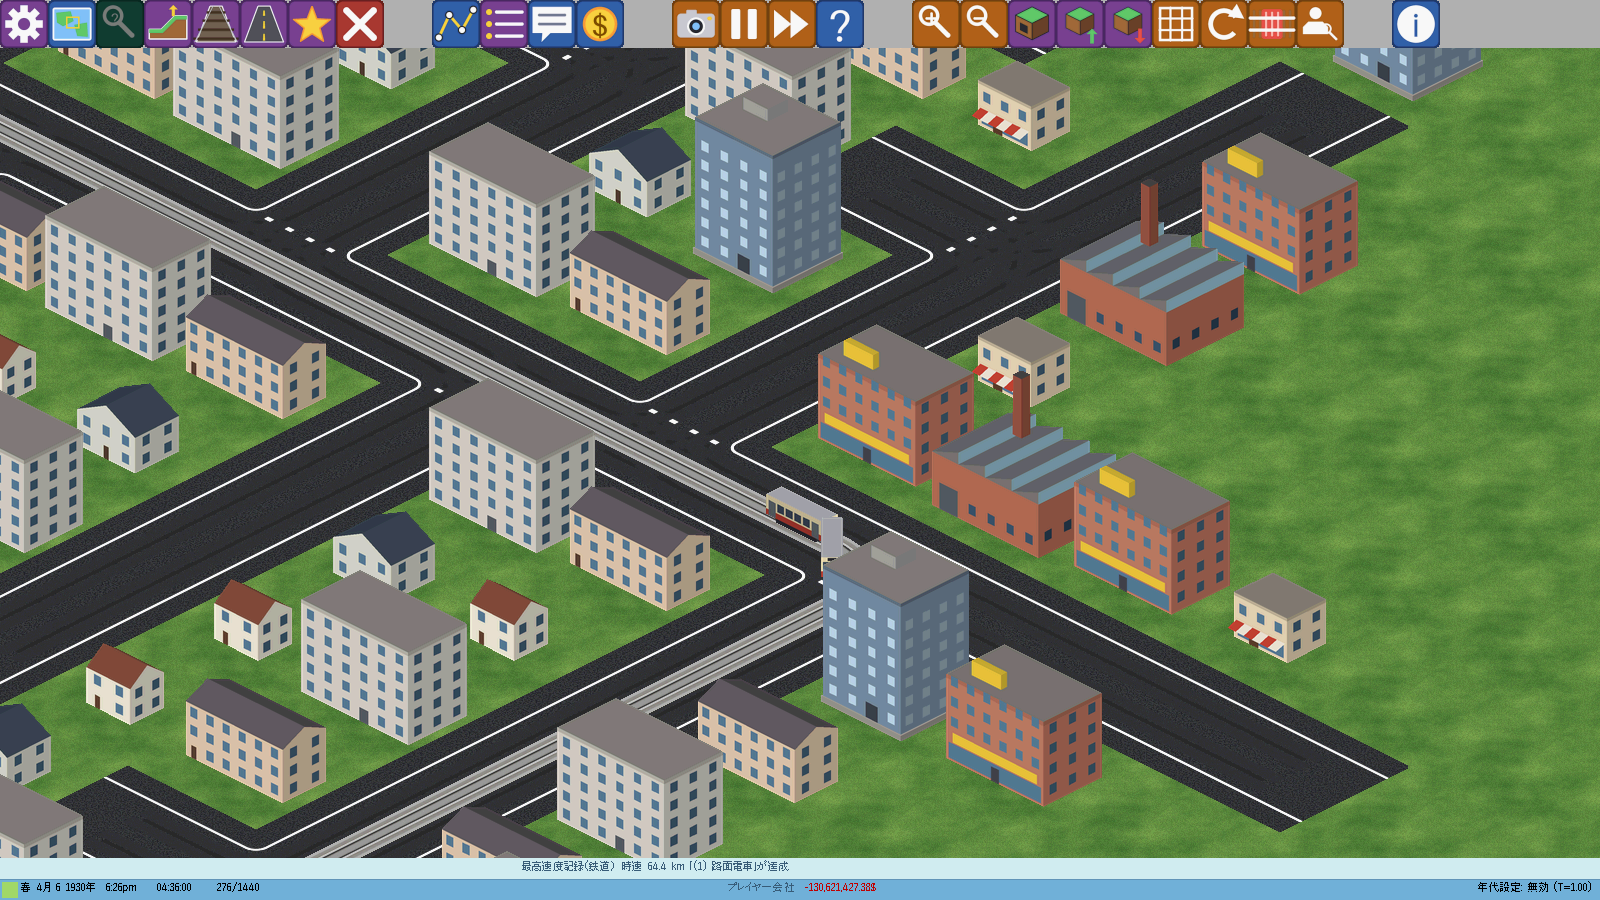
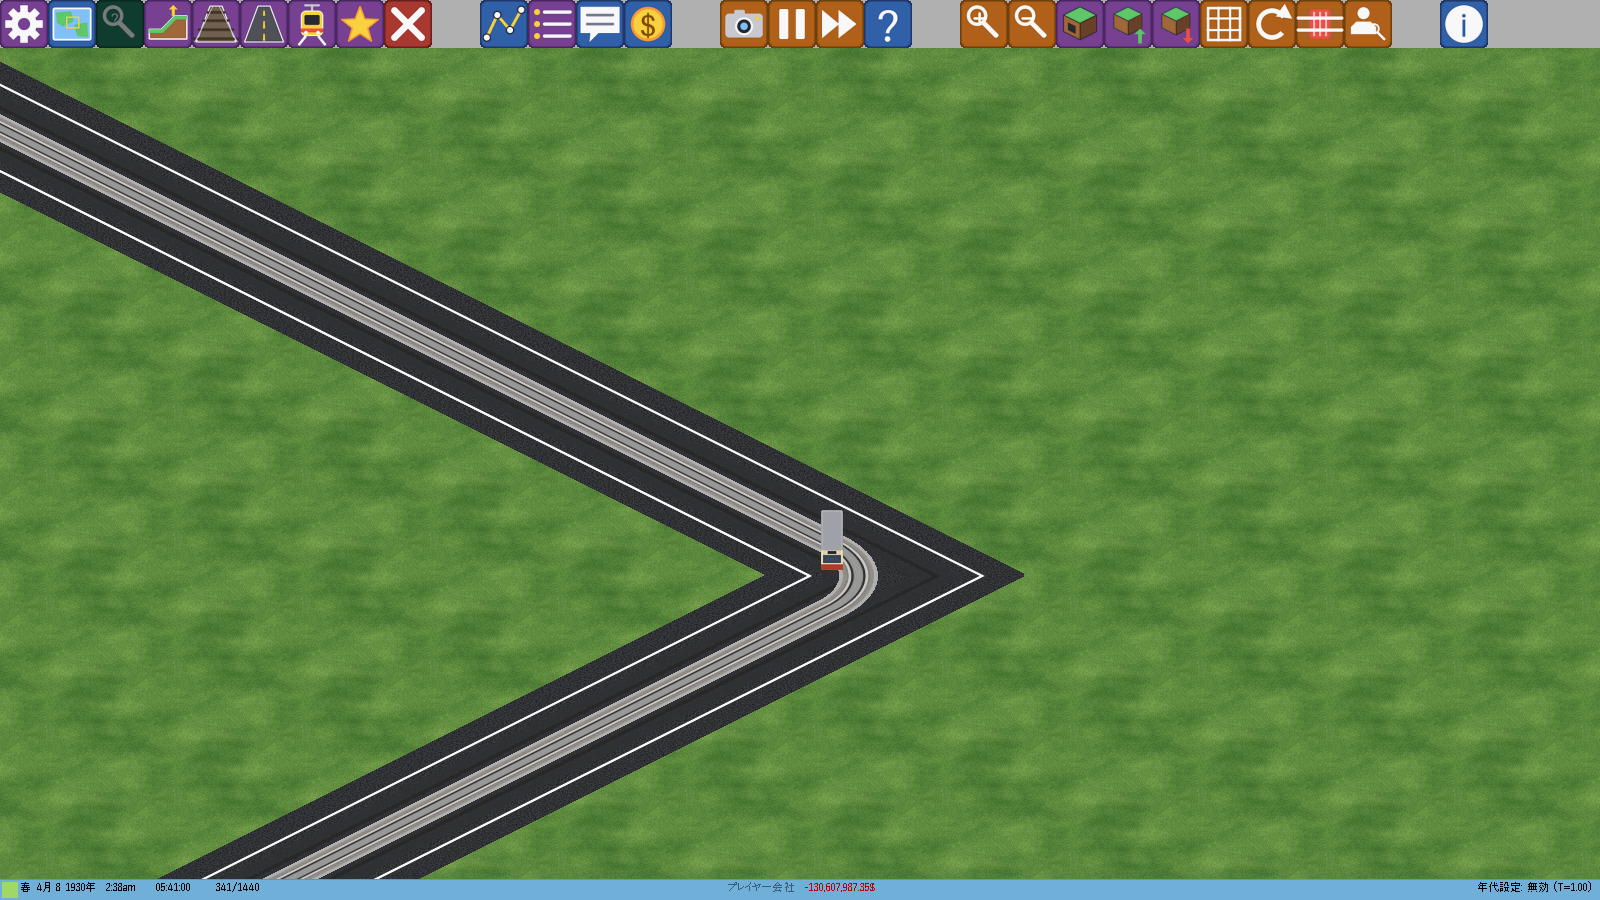
記録の道路の角の画面を撮り直し、未確認の項目と停留所の隙間を足す（#153）

diff --git a/docs/records/2026-11-26_tram.md b/docs/records/2026-11-26_tram.md
@@ -15,7 +15,7 @@
 ## 結果
 
 - 置ける: 軌道（道路の上と土の上）、停留所（道路の上と専用の軌道の両方）、AMI の車庫。停留所は、街の道がつながって交差になった升には置けなかった（`No through station here!`）。停留所を置いた後で街の道がつながると、待合が側道の口に重なって見える。
-- 走る: 車両は軌道の中央を走る（左側通行のずれは付かない）。道路の上では道路の中央。`get_speed()` の最大は 50 km/h で表の値のとおり（本体の「最高速度記録(鉄道)」の通知には 64 前後の数字が出た。換算の違いは調べていない）。
+- 走る: 車両は軌道の中央を走る（左側通行のずれは付かない）。道路の上では道路の中央。`get_speed()` の最大は 50 km/h で表の値のとおり（本体の「最高速度記録(鉄道)」の通知には 64 前後の数字が出た。原因は調べていない）。
 - 運べる・お金が回る（2 両連結、1930〜1931 年）: 財務の窓で、旅客 32 人（今年度）・22 人（前年度）、収入 42.51$ と 29.26$、運行費 -3,259$、維持費 -5,640$。短い線に街が 2 つなので、収入は費用より小さい。1 両の回では旅客 44 人・収入 58.45$。街の育ち方で、旅客が 0 のまま終わる回もあった（街が停留所から離れた回）。
 - 撤去: ツールバーの軌道の撤去と同じ道具（`tool_remove_way` の引数 `2`）で、道路の上の軌道を消すと道路は残り軌道だけが消えた。専用の軌道も消えた。引数 `2` は線路も撤去する道具（本体は路面軌道を線路の一種として扱う）。
 - 会社の残高が大きくマイナスで「破産しました」と出るのは、保存データの会社の残高が置く前から約 -1.3 億だったため（`get_current_cash()` で確かめた）。
@@ -26,7 +26,7 @@
 
 ## 画面
 
-ツールバーの画面（7）のほかは、路面電車のツールバーを足す前の pak で撮った（上の帯に路面電車の入口が無い）。車両・停留所の絵と表は同じ。
+道路の角（4）とツールバー（7）のほかは、路面電車のツールバーを足す前の pak で撮った（上の帯に路面電車の入口が無い）。車両・停留所の絵と表は同じ。
 
 道路の区間の停留所と車両（座標 (64,60)・(65,60)、温帯）:
 
@@ -40,7 +40,7 @@
 
 ![専用の停留所](2026-11-26_tram-screens/3_own_stop.png)
 
-道路の上の 90° の曲がり（(76,60)）:
+道路の上の 90° の曲がり（(76,60)。車両が建物に隠れないように、街を置かずに撮った）:
 
 ![道路の曲がり](2026-11-26_tram-screens/4_road_corner.png)
 
@@ -59,6 +59,8 @@
 ## 確かめていないこと
 
 - 本家 125.0.1 での動き（OTRP v64 だけ）。
+- 長い車体（`length=12` 以上）と連節の車体の路面電車。走らせたのは `length=7` の 1 両と 2 両連結だけで、長い車体の曲がりのはみ出しは未確認。
+- 専用の軌道の停留所は、道路の白線の外の帯をそのまま使うので、乗り場とレールの間に草地が空き、手前の歩道は草地に離れて見える（[専用の停留所](2026-11-26_tram-screens/3_own_stop.png)）。仮の絵のままにした。
 - 右側通行、雪の気候・冬の絵、坂、分岐（分岐の絵と、分かれる向きの動き）、信号と複数編成。
 - 道路の車両と路面電車が同じ道路を走るときの重なり。
 - 停留所をツールバーから置くときのカーソル（`cursor` を書いていない）。ツールバーは開いて撮っただけで、そこからは置いていない。
